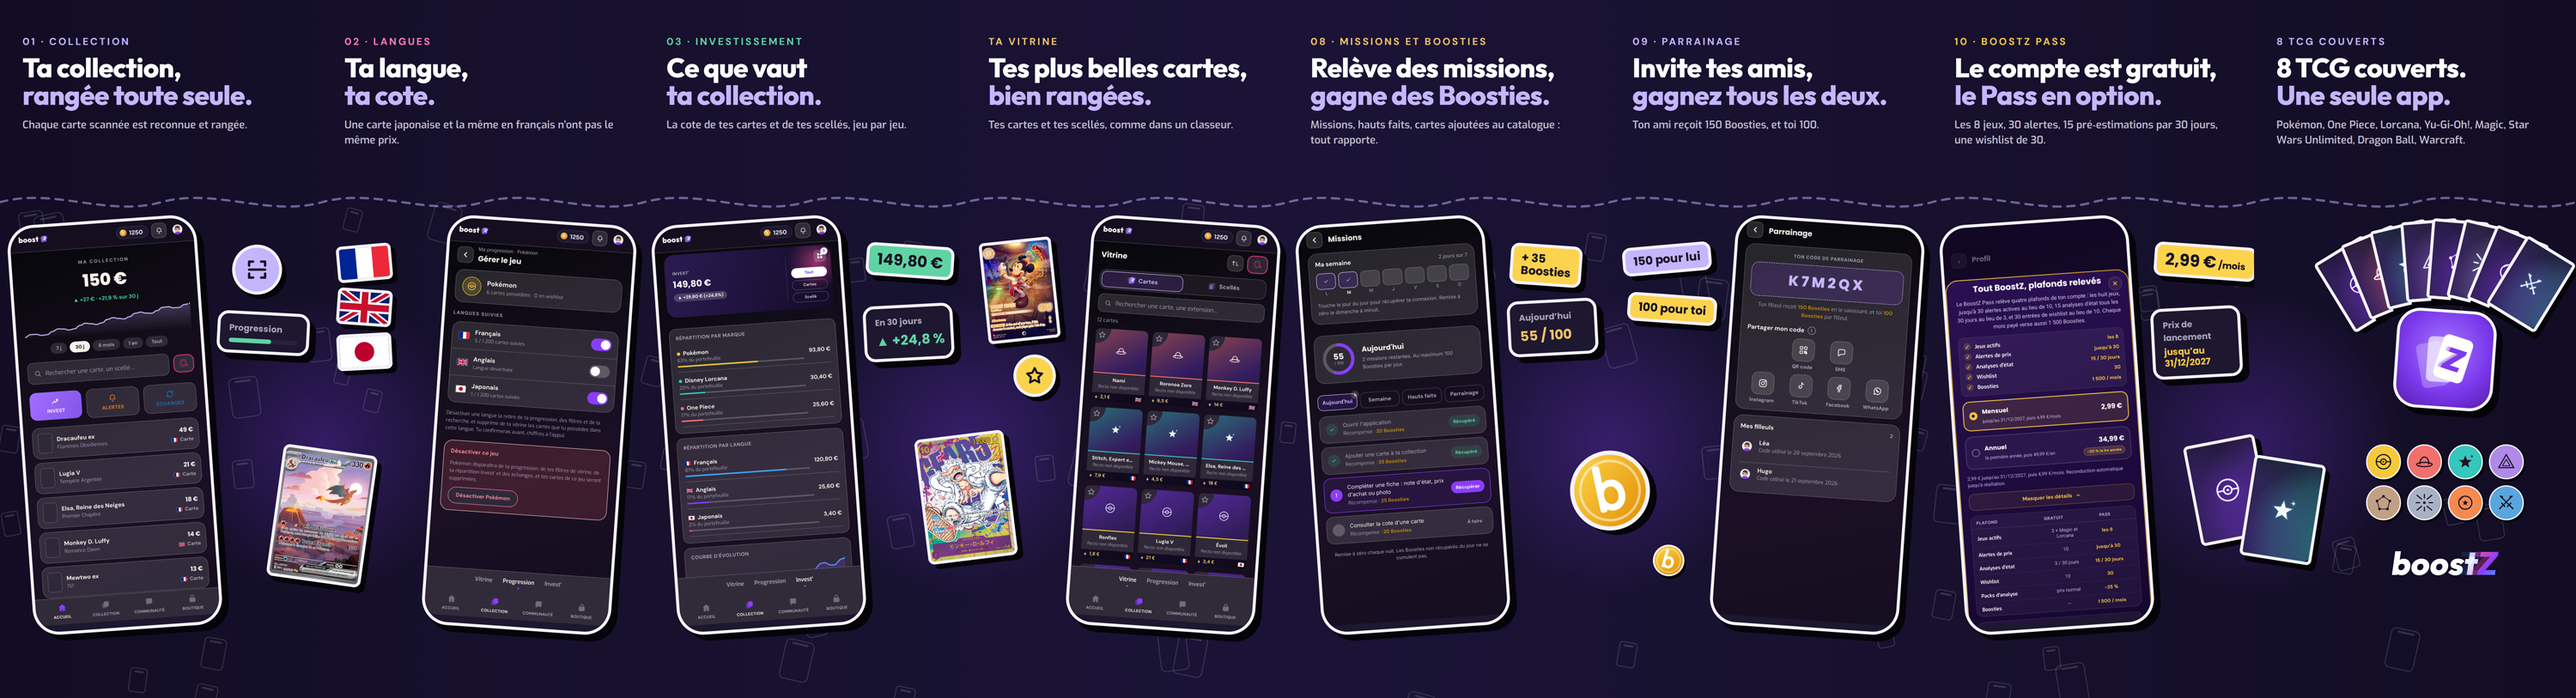
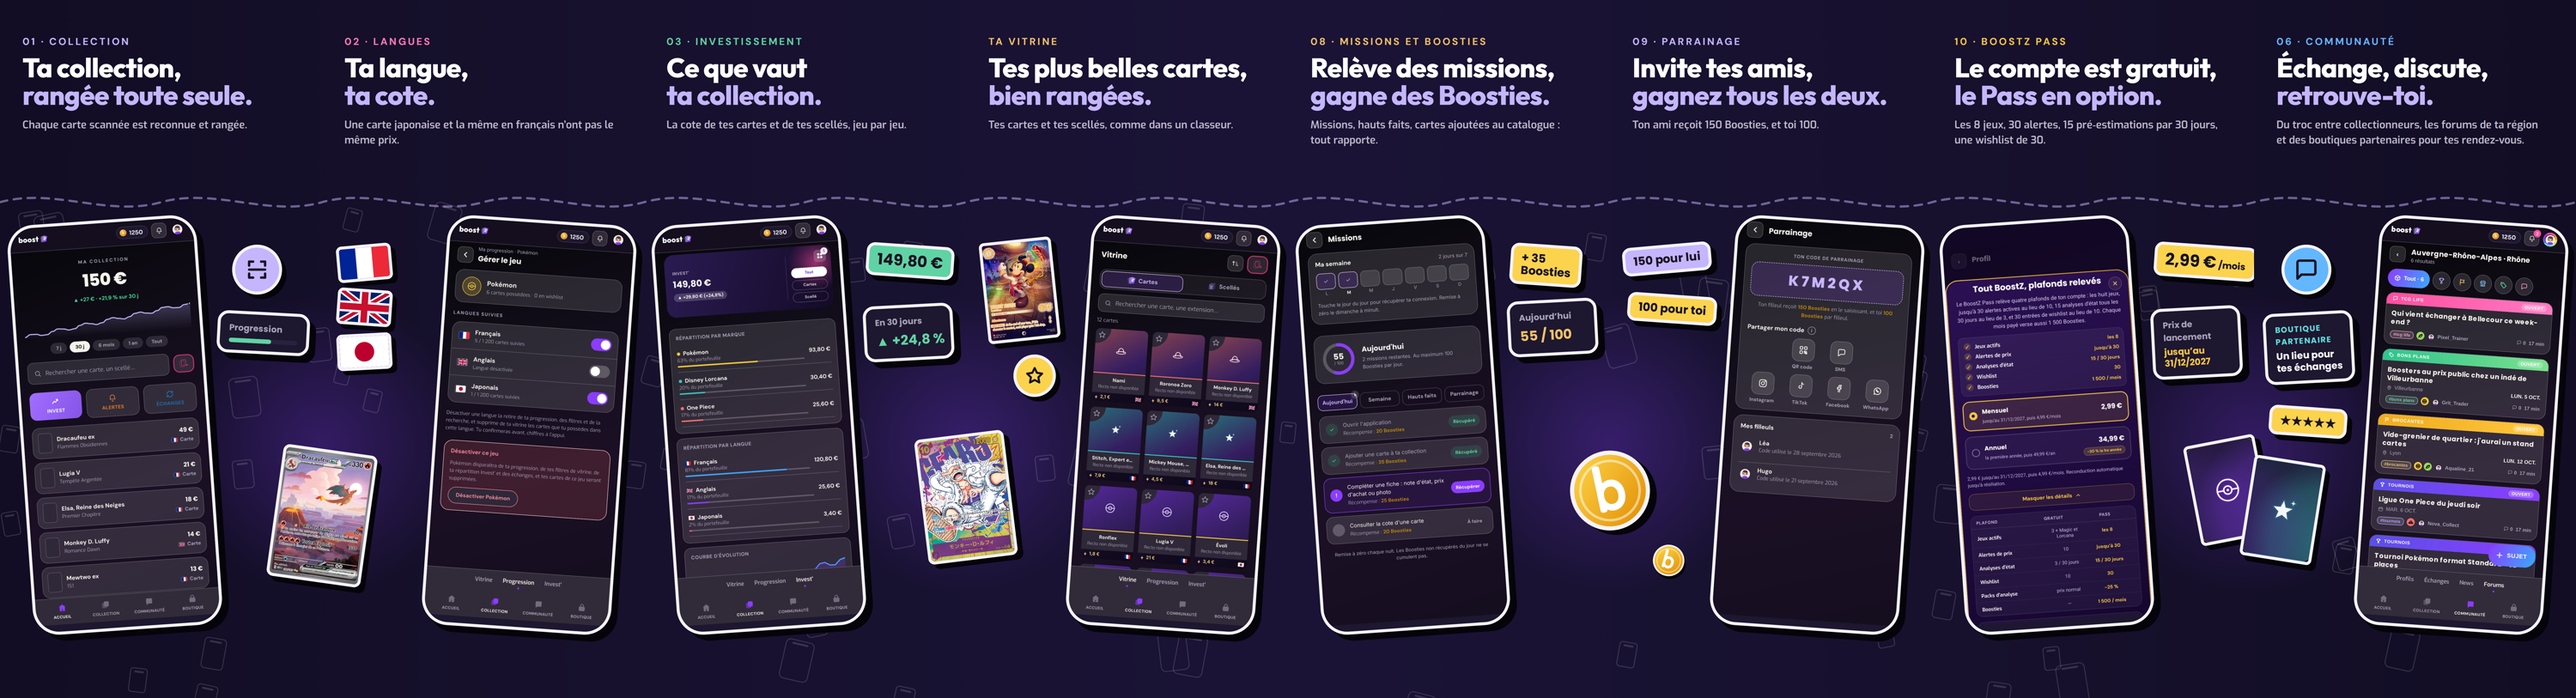
Replace the closing store screenshot with the community section
TanPib did not like the brand slide and asked for alerts and wishlist,
or exchanges and partner shops, instead. Only the second has a real
capture (the forums of a region, full resolution, as on boostz.fr), so
the last screenshot is the site's 06 · Communauté: trading between
collectors, regional forums, partner shops as meeting places.

Claude-Session: https://claude.ai/code/session_01KYjmNhJZrtvo4jRtggkgV3

Changed region(s): [[0.868, 0.3075, 1.0, 0.9225], [0.868, 0.0308, 0.992, 0.2153]]

diff --git a/gabarits/store.html b/gabarits/store.html
@@ -113,13 +113,14 @@ add('7-pass', 6, `${phone('pass', 6)}
   ${panel(FREE(6) - 10, FY + (PLAY ? 210 : 250), FW + 10, `${pl('Prix de lancement')}<div class="ui" style="font-size:${PLAY ? 32 : 36}px;color:#F5C542;margin-top:8px;line-height:1.25">jusqu’au<br>31/12/2027</div>`, -3)}
   ${text('10 · BoostZ Pass', '#F5C542', `Le compte est gratuit,<br>${ACC('le Pass en option.')}`, 'Les 8 jeux, 30 alertes, 15 pré‑estimations par 30 jours, une wishlist de 30.')}`);
 
-const games8 = ['pokemon', 'onepiece', 'lorcana', 'yugioh', 'magic', 'starwarsunlimited', 'dragonball', 'wow'];
-const CX = W / 2 + 120, CY = PT - (PLAY ? 20 : 0), CW = PLAY ? 200 : 230;
-add('8-huit-tcg', 7, `${games8.map((g, i) => { const a = (i - 3.5) * 9, rad = a * Math.PI / 180, R = PLAY ? 560 : 660; return dos(g, CX - CW / 2 + Math.sin(rad) * R, CY + R - Math.cos(rad) * R, CW, a, 2 + i); }).join('')}
-  <img class="abs" src="assets/icone-app.png" style="left:${CX - (PLAY ? 170 : 200)}px;top:${CY + (PLAY ? 300 : 360)}px;width:${PLAY ? 340 : 400}px;border:${STB}px solid ${INK};border-radius:${PLAY ? 80 : 94}px;box-shadow:${STS}px ${STS}px 0 ${SHADOW};transform:rotate(4deg);z-index:20">
-  <div class="abs" style="left:${CX - 2 * ((PLAY ? 120 : 140) + 24)}px;width:${4 * ((PLAY ? 120 : 140) + 24)}px;top:${CY + (PLAY ? 760 : 900)}px;display:flex;flex-wrap:wrap;justify-content:center;gap:24px;z-index:20">${games8.map((g) => emblemDisc(g, PLAY ? 120 : 140)).join('')}</div>
-  <div class="abs" style="left:${CX - 400}px;width:800px;top:${CY + (PLAY ? 1110 : 1310)}px;display:flex;justify-content:center;z-index:20">${wordmark(PLAY ? 110 : 130)}</div>
-  ${text('8 TCG couverts', '#C4B5FD', `8 TCG couverts.<br>${ACC('Une seule app.')}`, 'Pokémon, One Piece, Lorcana, Yu-Gi-Oh!, Magic, Star Wars Unlimited, Dragon Ball, Warcraft.')}`);
+// 8 - Community and partner shops (TanPib, 04/11/2026: not the brand slide,
+// rather alerts and wishlist or exchanges in partner shops). The forum capture
+// is the real one boostz.fr shows (shots/forum-rhone.png, full resolution).
+add('8-communaute', 7, `${phone('communaute', 7)}
+  ${sdisc(FREE(7) + 60, FY, PLAY ? 170 : 200, '#63B7FF', ico('<path d="M21 15a2 2 0 0 1-2 2H7l-4 4V5a2 2 0 0 1 2-2h14a2 2 0 0 1 2 2z"/>', PLAY ? 80 : 96))}
+  ${panel(FREE(7) - 10, FY + (PLAY ? 230 : 270), FW + 10, `<div class="ui" style="font-size:${PLAY ? 28 : 32}px;color:#5FDCDC;letter-spacing:.08em">BOUTIQUE PARTENAIRE</div><div class="ui" style="font-size:${PLAY ? 34 : 38}px;color:#fff;margin-top:10px;line-height:1.25">Un lieu pour tes échanges</div>`, -3)}
+  ${label(FREE(7) + 10, FY + (PLAY ? 560 : 650), '★★★★★', { bg: SUN, r: 4, fs: PLAY ? 44 : 50 })}
+  ${text('06 · Communauté', '#63B7FF', `Échange, discute,<br>${ACC('retrouve-toi.')}`, 'Du troc entre collectionneurs, les forums de ta région et des boutiques partenaires pour tes rendez-vous.')}`);
 
 carousel(S);
 </script></body></html>
